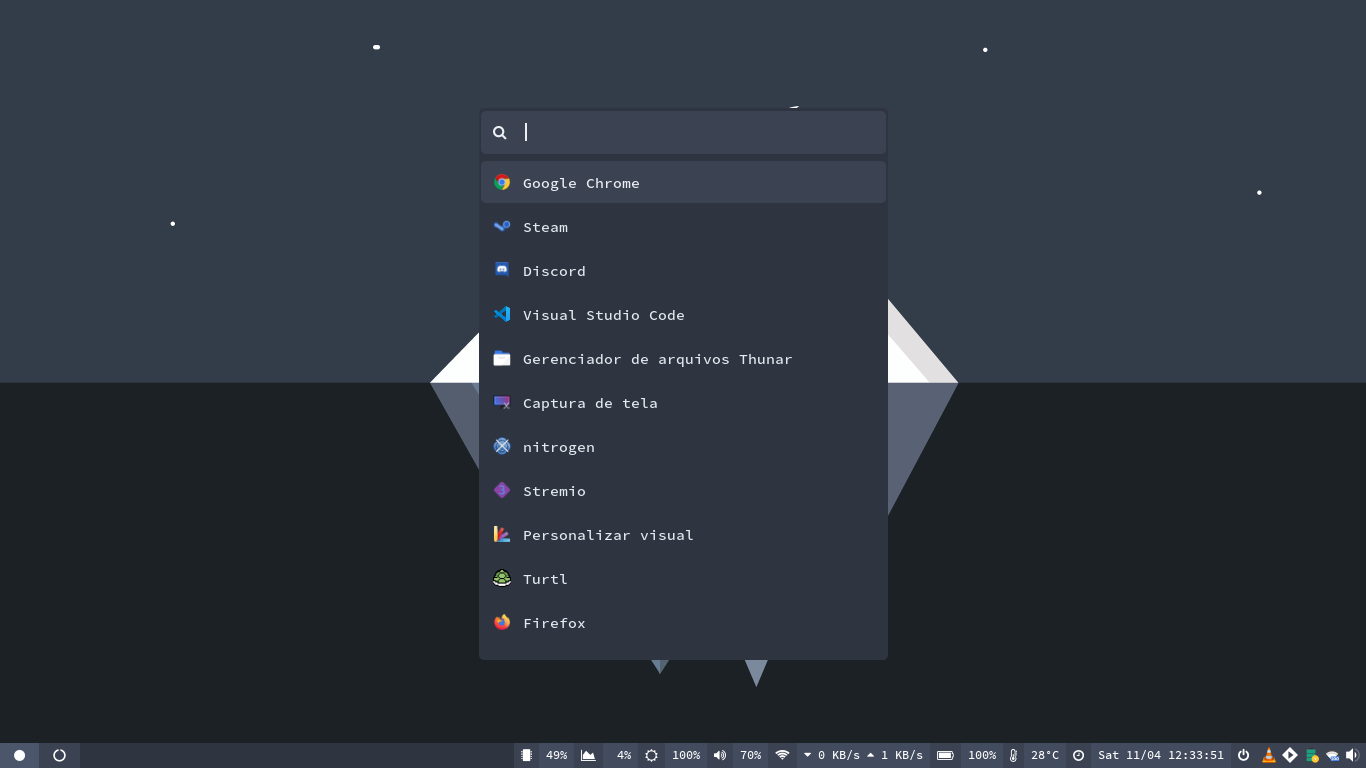
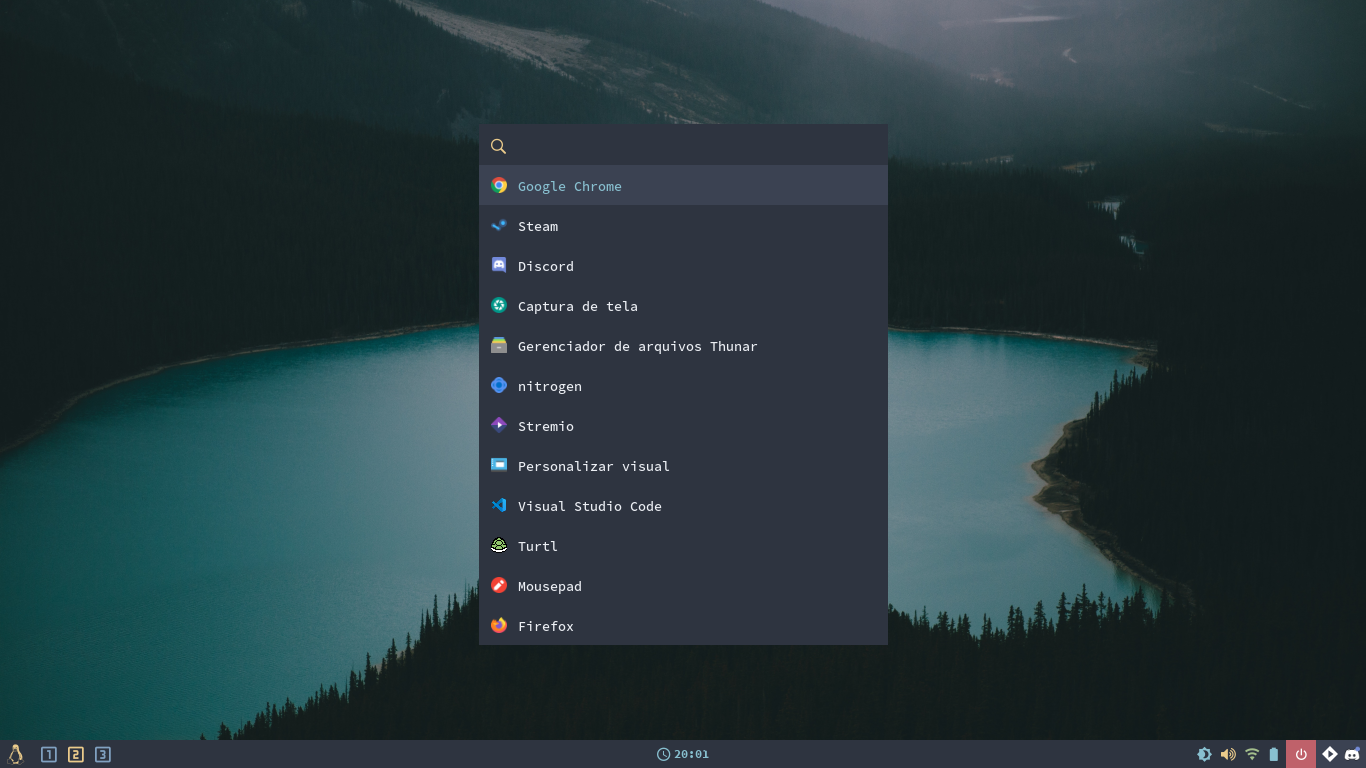
updated

diff --git a/README.md b/README.md
@@ -4,7 +4,7 @@
 - [Nerd Fonts GitHub](https://github.com/ryanoasis/nerd-fonts)
 
 ## Wallpaper
-- [wallpapersden](https://wallpapersden.com/iceberg-minimalist-wallpaper/)
+- [wallpapersden](https://wallpapersden.com/peyto-lake-4k-wallpaper/)
 
 ## Icon Pack
 - [Flat Remix](https://github.com/daniruiz/Flat-Remix)
